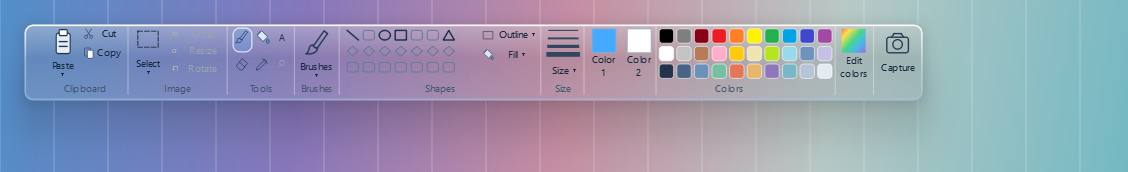
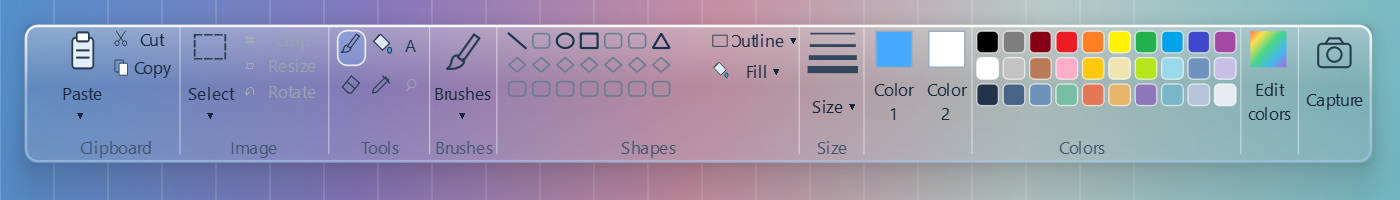
Enlarge HUD and toast text; exclude every application window from capture

Changed region(s): [[0.0, 0.1163, 0.9929, 0.9012], [0.1551, 0.7267, 0.2172, 0.7558]]

diff --git a/src/paint_overlay.py b/src/paint_overlay.py
@@ -287,26 +287,33 @@ class TextEditor(GlassPanel):
 class CaptureToast(GlassPanel):
     def __init__(self):
         super().__init__(None,C.Qt.Tool|C.Qt.FramelessWindowHint|C.Qt.WindowStaysOnTopHint|C.Qt.WindowDoesNotAcceptFocus)
-        self.setStyleSheet(STYLE); layout=W.QVBoxLayout(self); layout.setContentsMargins(16,10,16,10)
-        self.title=W.QLabel('Скриншот сохранён'); self.title.setStyleSheet('font-weight:600;'); layout.addWidget(self.title)
-        self.details=W.QLabel(); layout.addWidget(self.details)
+        self.title_text='Скриншот сохранён'; self.detail_text='Скопирован в буфер обмена'
+        self.setFixedSize(380,88)
         self.timer=C.QTimer(self); self.timer.setSingleShot(True); self.timer.timeout.connect(self.hide)
+    def paintEvent(self,event):
+        super().paintEvent(event)
+        p=G.QPainter(self); p.setRenderHint(G.QPainter.TextAntialiasing)
+        font=G.QFont('Segoe UI'); font.setPixelSize(20); font.setWeight(G.QFont.DemiBold); p.setFont(font); p.setPen(G.QColor('#10273f'))
+        p.drawText(C.QRectF(20,13,self.width()-40,28),C.Qt.AlignLeft|C.Qt.AlignVCenter,self.title_text)
+        font.setPixelSize(15); font.setWeight(G.QFont.Normal); p.setFont(font); p.setPen(G.QColor('#243e58'))
+        p.drawText(C.QRectF(20,45,self.width()-40,25),C.Qt.AlignLeft|C.Qt.AlignVCenter,self.detail_text)
     def notify(self,screen):
         number=G.QGuiApplication.screens().index(screen)+1
-        self.details.setText('Скопирован в буфер · Монитор '+str(number)); self.adjustSize()
-        area=screen.availableGeometry(); self.move(area.right()-self.width()-18,area.bottom()-self.height()-18); self.show(); self.raise_(); self.timer.start(2800)
+        self.detail_text='Скопирован в буфер · Монитор '+str(number); self.update()
+        area=screen.availableGeometry(); self.move(area.right()-self.width()-18,area.bottom()-self.height()-18); self.show(); self.raise_(); self.timer.start(3300)
 
 class HUD(GlassPanel):
     def __init__(self,owner):
         super().__init__(None,C.Qt.Tool|C.Qt.FramelessWindowHint|C.Qt.WindowStaysOnTopHint|C.Qt.WindowDoesNotAcceptFocus)
         self.owner=owner
-        self.ui_scale=1.6
-        self.setFixedSize(round(562*self.ui_scale),round(48*self.ui_scale))
+        self.ui_scale=2.4
+        self.setFixedSize(round(562*self.ui_scale),round(58*self.ui_scale))
         self.swatches=[['#000000','#7f7f7f','#880015','#ed1c24','#ff7f27','#fff200','#22b14c','#00a2e8','#3f48cc','#a349a4'],['#ffffff','#c3c3c3','#b97a57','#ffaec9','#ffc90e','#efe4b0','#b5e61d','#99d9ea','#7092be','#c8bfe7'],['#24334c','#476385','#6b91b8','#77bfa3','#e47856','#e7b66a','#8e78bb','#78b6c8','#b6c4d8','#e6ebf2']]
         self.tool_buttons={}; self.colors={}; self.hotspots=[]
         self.setStyleSheet('QPushButton {border:0;background:transparent;padding:0;border-radius:8px;} QPushButton:hover {background:rgba(30,65,110,18);border:1px solid rgba(70,110,160,90);} QPushButton:pressed {background:rgba(130,190,250,100);}')
         def hit(rect,tip,callback=None,key=None):
-            button=W.QPushButton(self); button.setGeometry(*(round((v+12 if i==0 else v)*self.ui_scale) for i,v in enumerate(rect))); button.setToolTip(tip); button.setAccessibleName(tip)
+            if rect[0] in (1,55,159,313,340,362,496,520) and rect[3]>=33:rect=(rect[0],rect[1],rect[2],42)
+            button=W.QPushButton(self); button.setProperty('baseRect',rect); button.setGeometry(*(round((v+12 if i==0 else v)*self.ui_scale) for i,v in enumerate(rect))); button.setToolTip(tip); button.setAccessibleName(tip)
             if callback:button.clicked.connect(callback)
             else:button.setToolTip(tip+' — пока недоступно'); button.setProperty('unavailable',True); button.setEnabled(False)
             if key:
@@ -344,6 +351,13 @@ class HUD(GlassPanel):
         hit((520,1,29,34),'Скриншот · Ctrl+Alt+S',owner.screenshot)
         self.animation=C.QPropertyAnimation(self,b'windowOpacity'); self.animation.setDuration(160); self.animation.setEasingCurve(C.QEasingCurve.OutCubic)
         self.brush_popup=BrushChooser(owner)
+    def fit_to_screen(self,area):
+        self.ui_scale=min(2.4,max(1.0,(area.width()-32)/562))
+        self.setFixedSize(round(562*self.ui_scale),round(58*self.ui_scale))
+        for button in self.hotspots:
+            rect=button.property('baseRect')
+            button.setGeometry(*(round((v+12 if i==0 else v)*self.ui_scale) for i,v in enumerate(rect)))
+        self.update()
     def brush_menu(self):
         self.owner.panel.dismiss(); self.owner.select_tool('brush')
         if self.brush_popup.isVisible():self.brush_popup.hide()
@@ -354,7 +368,7 @@ class HUD(GlassPanel):
             sub=menu.addMenu(title)
             for value in values:
                 action=sub.addAction(str(value)+' px'); action.setCheckable(True); action.setChecked(value==self.owner.cfg[key]); action.triggered.connect(lambda checked=False,k=key,v=value:self.owner.set_value(k,v))
-        menu.exec(self.mapToGlobal(C.QPoint(round(325*self.ui_scale),round(34*self.ui_scale))))
+        menu.exec(self.mapToGlobal(C.QPoint(round(325*self.ui_scale),self.height()+5)))
     def choose_color(self):
         self.owner.set_layer_shortcuts(False)
         try:
@@ -369,30 +383,30 @@ class HUD(GlassPanel):
         p.setRenderHint(G.QPainter.Antialiasing); p.setRenderHint(G.QPainter.TextAntialiasing)
         p.scale(self.ui_scale,self.ui_scale)
         light=getattr(self,'glass_light',None)
-        paint_glass(p,C.QRectF(0,0,562,48),light/self.ui_scale if light else None)
+        paint_glass(p,C.QRectF(0,0,562,58),light/self.ui_scale if light else None)
         p.translate(12,0)
-        font=G.QFont('Segoe UI'); font.setPixelSize(6); p.setFont(font)
+        font=G.QFont('Segoe UI'); font.setPixelSize(7); p.setFont(font)
         def text(rect,title,color='#17273d'):
             p.setPen(G.QColor(color)); p.drawText(C.QRectF(*rect),C.Qt.AlignCenter,title)
         def icon(kind,x,y,w=12,h=12):
             p.save(); p.translate(x,y); p.scale(w/24,h/24); draw_action(p,kind); p.restore()
         for x in (53,115,157,185,311,338,383,495,519):
-            p.setPen(G.QPen(G.QColor(255,255,255,120),.5)); p.drawLine(C.QPointF(x,1),C.QPointF(x,44))
-        for x,w,title in [(1,51,'Clipboard'),(54,60,'Image'),(116,41,'Tools'),(158,27,'Brushes'),(186,125,'Shapes'),(312,26,'Size'),(339,180,'Colors')]:text((x,36,w,9),title,'#43566f')
+            p.setPen(G.QPen(G.QColor(255,255,255,120),.5)); p.drawLine(C.QPointF(x,1),C.QPointF(x,54))
+        for x,w,title in [(1,51,'Clipboard'),(54,60,'Image'),(116,41,'Tools'),(158,27,'Brushes'),(186,125,'Shapes'),(312,26,'Size'),(339,180,'Colors')]:text((x,46,w,10),title,'#43566f')
         # Highlight follows the selected tool, rather than a baked-in screenshot.
         selected=self.tool_buttons.get(self.owner.drawing_tool)
         if selected:
             r=selected.geometry(); r=C.QRectF(r.x()/self.ui_scale-12,r.y()/self.ui_scale,r.width()/self.ui_scale,r.height()/self.ui_scale)
             p.setBrush(G.QColor(90,170,255,65)); p.setPen(G.QPen(G.QColor(255,255,255,210),.7)); p.drawRoundedRect(r.adjusted(.7,.7,-.7,-.7),4,4)
-        icon('paste',5,2,15,18); text((1,22,23,8),'Paste'); text((7,29,10,5),'▾')
+        icon('paste',5,2,15,18); text((1,23,23,11),'Paste'); text((7,35,10,6),'▾')
         icon('cut',25,2,7,8); text((32,1,19,10),'Cut')
         icon('copy',25,14,7,8); text((32,13,19,10),'Copy')
-        icon('select',57,2,17,15); text((55,20,22,10),'Select'); text((61,28,10,5),'▾')
+        icon('select',57,2,17,15); text((55,23,22,11),'Select'); text((61,35,10,6),'▾')
         for y,title,glyph in [(1,'Crop','⌗'),(12,'Resize','▱'),(23,'Rotate','↶')]:
             text((78,y,9,10),glyph,'#a4aab3'); text((86,y,28,10),title,'#9aa3ae')
         for kind,x,y in [('brush',119,3),('fill',132,3),('eraser',119,20)]:icon(kind,x,y,10,10)
         text((144,3,11,11),'A','#20354d'); icon('picker',132,20,10,10); text((144,20,11,10),'⌕','#9aa3ae')
-        icon('brush',162,2,18,19); text((159,22,24,9),'Brushes'); text((166,30,10,5),'▾')
+        icon('brush',162,2,18,19); text((157,23,28,11),'Brushes'); text((166,35,10,6),'▾')
         for i in range(7):
             for j in range(3):
                 rect=C.QRectF(190+i*10,4+j*10,7,6)
@@ -408,9 +422,9 @@ class HUD(GlassPanel):
         icon('fill',274,15,8,8); text((283,14,27,11),'Fill ▾')
         for i,width in enumerate((.7,1.2,2,3)):
             p.setPen(G.QPen(G.QColor('#32465e'),width)); p.drawLine(C.QPointF(316,4+i*5),C.QPointF(334,4+i*5))
-        text((315,25,22,8),'Size ▾')
+        text((313,28,26,12),'Size ▾')
         for x,title,color in [(340,'Color 1',self.owner.cfg['color']),(362,'Color 2','#ffffff')]:
-            p.setPen(G.QPen(G.QColor('#9aaabf'),.6)); p.setBrush(G.QColor(color)); p.drawRect(C.QRectF(x+3,3,15,15)); text((x,20,21,13),title.replace(' ','\n'))
+            p.setPen(G.QPen(G.QColor('#9aaabf'),.6)); p.setBrush(G.QColor(color)); p.drawRect(C.QRectF(x+3,3,15,15)); text((x,22,21,20),title.replace(' ','\n'))
         p.setBrush(C.Qt.NoBrush)
         for row,colors in enumerate(self.swatches):
             for col,color in enumerate(colors):
@@ -418,8 +432,8 @@ class HUD(GlassPanel):
                 if color.lower()==self.owner.cfg['color'].lower():p.setPen(G.QPen(G.QColor('#2684e3'),1)); p.drawRoundedRect(rect.adjusted(-.8,-.8,.8,.8),2.5,2.5)
         gradient=G.QLinearGradient(497,3,514,18)
         for at,color in [(0,'#ff5252'),(.25,'#ffdf4b'),(.5,'#4ad687'),(.75,'#45b8ed'),(1,'#ab68dd')]:gradient.setColorAt(at,G.QColor(color))
-        p.fillRect(C.QRectF(499,3,15,15),gradient); text((496,20,22,14),'Edit\ncolors')
-        icon('camera',525,3,18,18); text((520,22,29,11),'Capture')
+        p.fillRect(C.QRectF(499,3,15,15),gradient); text((496,22,22,20),'Edit\ncolors')
+        icon('camera',525,3,18,18); text((519,25,31,12),'Capture')
     def open(self):PalettePanelBase.open(self)
     def dismiss(self):PalettePanelBase.dismiss(self)
 
@@ -492,29 +506,56 @@ class App:
         ink=self.overlay.image.copy(rect)
         painter=G.QPainter(result); painter.setRenderHint(G.QPainter.SmoothPixmapTransform); painter.drawImage(C.QRectF(result.rect()),ink,C.QRectF(ink.rect())); painter.end()
         return result
+    @staticmethod
+    def exclude_capture_windows(windows):
+        changes=[]
+        if W.QApplication.platformName()!='windows' or sys.getwindowsversion().build<19041:return changes
+        from ctypes import wintypes
+        u.SetWindowDisplayAffinity.argtypes=[wintypes.HWND,wintypes.DWORD]; u.SetWindowDisplayAffinity.restype=wintypes.BOOL
+        u.GetWindowDisplayAffinity.argtypes=[wintypes.HWND,ctypes.POINTER(wintypes.DWORD)]; u.GetWindowDisplayAffinity.restype=wintypes.BOOL
+        for widget in windows:
+            hwnd=wintypes.HWND(int(widget.winId())); old=wintypes.DWORD(0)
+            u.GetWindowDisplayAffinity(hwnd,ctypes.byref(old))
+            if u.SetWindowDisplayAffinity(hwnd,0x11):changes.append((int(widget.winId()),old.value))
+        return changes
+    @staticmethod
+    def restore_capture_windows(changes):
+        restored=set()
+        for hwnd,old in changes:
+            if hwnd in restored:continue
+            restored.add(hwnd)
+            if u.IsWindow(ctypes.c_void_p(hwnd)):u.SetWindowDisplayAffinity(ctypes.c_void_p(hwnd),old)
     def screenshot(self):
         if self.capturing:return
         if self.text_editor is not None:self.finish_text(True)
         self.capturing=True; target=self.capture_target()
-        visible=[w for w in (self.panel,self.dock,self.dock.brush_popup,self.capture_toast,self.overlay) if w.isVisible()]
+        persistent=(self.panel,self.dock,self.dock.brush_popup,self.overlay)
+        restore=[w for w in persistent if w.isVisible()]
+        visible=[w for w in W.QApplication.topLevelWidgets() if w.isVisible()]
+        affinities=self.exclude_capture_windows(visible)
         for widget in visible:widget.hide()
         def capture():
             filename=None
             try:
+                # Catch tooltips or flyouts that were queued before the click.
+                late=[w for w in W.QApplication.topLevelWidgets() if w.isVisible()]
+                affinities.extend(self.exclude_capture_windows(late))
+                for widget in late:widget.hide()
+                W.QApplication.processEvents(C.QEventLoop.ExcludeUserInputEvents)
+                if W.QApplication.platformName()=='windows':ctypes.windll.dwmapi.DwmFlush()
                 result=self.capture_screen_image(target)
                 W.QApplication.clipboard().setImage(result)
                 folder=Path(C.QStandardPaths.writableLocation(C.QStandardPaths.PicturesLocation))/APP; folder.mkdir(parents=True,exist_ok=True)
                 filename=folder/('Paint Overlay '+C.QDateTime.currentDateTime().toString('yyyy-MM-dd HH-mm-ss-zzz')+'.png')
                 if not result.save(str(filename),'PNG'):raise RuntimeError('Не удалось сохранить файл')
                 self.last_screenshot=filename
-                self.tray.showMessage(APP,'Скриншот сохранён и скопирован в буфер',W.QSystemTrayIcon.Information,3000)
             except Exception as error:W.QMessageBox.warning(None,APP,str(error))
             finally:
-                for widget in reversed(visible):
-                    if widget is not self.capture_toast:widget.show(); widget.raise_()
+                self.restore_capture_windows(affinities)
+                for widget in reversed(restore):widget.show(); widget.raise_()
                 self.capturing=False
             if filename is not None and self.last_screenshot==filename:self.capture_toast.notify(target)
-        C.QTimer.singleShot(150,capture)
+        C.QTimer.singleShot(300,capture)
     def enable(self,value):self.enabled=value; self.previous=None; self.apply_mode()
     def set_layer_shortcuts(self,active):
         self.layer_shortcuts_active=active
@@ -530,10 +571,13 @@ class App:
         self.overlay.setCursor(C.Qt.CrossCursor if shield else C.Qt.ArrowCursor); self.overlay.show(); self.overlay.update()
         if shield:
             area=(G.QGuiApplication.screenAt(G.QCursor.pos()) or G.QGuiApplication.primaryScreen()).availableGeometry()
+            self.dock.fit_to_screen(area)
             self.dock.move(area.center().x()-self.dock.width()//2,area.top()+14); self.dock.open()
         else:self.dock.dismiss(); self.panel.dismiss(); self.dock.brush_popup.hide(); self.overlay.selection=None; self.overlay.update()
         if self.panel.isVisible():self.panel.raise_()
-    def toggle_mode(self):self.set_value('shield',not self.cfg['shield']); self.panel.dismiss(); self.apply_mode()
+    def toggle_mode(self):
+        if self.capturing:return
+        self.set_value('shield',not self.cfg['shield']); self.panel.dismiss(); self.apply_mode()
     def leave_layer(self):
         if self.cfg['shield']:self.toggle_mode()
     def toggle_panel(self):

diff --git a/tests/test_overlay.py b/tests/test_overlay.py
@@ -61,7 +61,7 @@ class OverlayTests(BaseOverlay):
     def test_native_ribbon_and_palette(self):
         a=self.app
         self.assertFalse(hasattr(a.dock,'background'))
-        self.assertEqual(a.dock.size(),m.C.QSize(899,77))
+        self.assertEqual(a.dock.size(),m.C.QSize(1349,139))
         self.assertEqual(len(a.panel.colors),6)
         self.assertTrue(all(s.orientation()==m.C.Qt.Horizontal for s in a.panel.sliders.values()))
         a.dock.tool_buttons['ellipse'].click()
@@ -152,6 +152,19 @@ class PaintWorkflowTests(BaseOverlay):
             m.u=Keys; a.leave_layer=lambda:exits.append(True)
             a.tick(); self.assertFalse(exits); self.assertTrue(a.overlay.shield)
         finally:m.u=real; a.leave_layer=original_leave
+    def test_toast_draws_readable_title_and_details(self):
+        toast=self.app.capture_toast
+        image=toast.grab().toImage()
+        for area in (m.C.QRect(20,13,340,28),m.C.QRect(20,45,340,25)):
+            dark=sum(1 for y in range(area.top(),area.bottom()) for x in range(area.left(),area.right()) if image.pixelColor(x,y).red()<90 and image.pixelColor(x,y).green()<110 and image.pixelColor(x,y).alpha()>100)
+            self.assertGreater(dark,150)
+    def test_hud_fits_smaller_displays(self):
+        dock=self.app.dock
+        try:
+            dock.fit_to_screen(m.C.QRect(0,0,1024,768))
+            self.assertLessEqual(dock.width(),992)
+            self.assertTrue(all(dock.rect().contains(button.geometry()) for button in dock.hotspots))
+        finally:dock.fit_to_screen(m.C.QRect(0,0,1920,1080))
     def test_font_popup_does_not_commit_text_prematurely(self):
         a=self.app; a.cfg['shield']=True; a.open_text(m.C.QPointF(30,40)); editor=a.text_editor; a.editor_wait_release=False
         real=m.u; original_popup=m.W.QApplication.activePopupWidget; original_pos=m.G.QCursor.pos
@@ -181,10 +194,13 @@ class PaintWorkflowTests(BaseOverlay):
         self.assertEqual(result.pixelColor(100,100).name(),'#ff0000')
         self.assertEqual(a.capture_screen_image(first).pixelColor(50,50).name(),'#335577')
     def test_capture_copies_png_and_notifies(self):
-        a=self.app
+        a=self.app; case=self
+        probe=m.W.QWidget(None,m.C.Qt.Tool); probe.setFixedSize(60,40); probe.show()
+        a.dock.show(); a.capture_toast.show()
         class Screen:
             def geometry(self):return m.C.QRect(0,0,400,400)
             def grabWindow(self,window):
+                case.assertFalse(any(w.isVisible() for w in m.W.QApplication.topLevelWidgets()))
                 pix=m.G.QPixmap(400,400); pix.fill(m.G.QColor('#335577')); return pix
         screen=Screen(); original_target=a.capture_target; original_notify=a.capture_toast.notify
         original_path=m.C.QStandardPaths.writableLocation; original_warning=m.W.QMessageBox.warning
@@ -193,10 +209,11 @@ class PaintWorkflowTests(BaseOverlay):
             a.capture_target=lambda:screen; a.capture_toast.notify=lambda target:notifications.append(target)
             m.C.QStandardPaths.writableLocation=lambda location:sandbox.name
             m.W.QMessageBox.warning=lambda *args:errors.append(args)
-            a.screenshot(); loop=m.C.QEventLoop(); m.C.QTimer.singleShot(450,loop.quit); loop.exec()
+            a.screenshot(); loop=m.C.QEventLoop(); m.C.QTimer.singleShot(600,loop.quit); loop.exec()
             self.assertFalse(errors); self.assertFalse(a.capturing)
             self.assertTrue(a.last_screenshot.exists()); self.assertEqual(self.qt.clipboard().image().size(),m.C.QSize(400,400)); self.assertEqual(notifications,[screen])
         finally:
+            probe.close()
             a.capture_target=original_target; a.capture_toast.notify=original_notify
             m.C.QStandardPaths.writableLocation=original_path; m.W.QMessageBox.warning=original_warning
     def test_no_pointer_glow_and_aligned_active_tool(self):

diff --git a/README.md b/README.md
@@ -6,6 +6,8 @@
 
 ![Стеклянная панель инструментов](docs/glass-demo.png)
 
+**Размер HUD:** до 1349×139 логических пикселей; на небольших экранах ширина подстраивается автоматически. Подписи увеличены, а попап сохранения рисует текст напрямую.
+
 **Liquid Glass style:** прозрачный HUD с нативным размытием окон Windows, бликами, мягкими краями и векторными значками. Если нативные эффекты недоступны, используется полупрозрачная подложка без системного размытия.
 
 ## Установка
@@ -34,7 +36,7 @@
 
 Линия с Shift привязывается к направлениям с шагом 45°. Прямоугольник с Shift становится квадратом, эллипс — кругом. Для выделения протяните рамку; внутри неё можно перемещать фрагмент, за углы — менять размер.
 
-Capture снимает только монитор последнего рисования, копирует результат в буфер обмена и сохраняет PNG. Попап подтверждает сохранение. Панели и редактор не попадают в кадр. Если рисунка ещё нет, выбирается монитор курсора.
+Capture снимает только монитор последнего рисования, копирует результат в буфер обмена и сохраняет PNG. Попап подтверждает сохранение. Перед снимком скрываются все окна приложения, включая меню и уведомления; на современных Windows они также временно исключаются из захвата средствами ОС. Панели и редактор не попадают в кадр. Если рисунка ещё нет, выбирается монитор курсора.
 
 Скриншоты: `Изображения/Paint Overlay`. Настройки: `%LOCALAPPDATA%/Paint Overlay/settings.json`. Рисунок хранится в памяти до очистки или выхода.
 

diff --git a/docs/branding.md b/docs/branding.md
@@ -17,3 +17,5 @@ The glass appearance is inspired by [Apple HIG Materials](https://developer.appl
 The non-activating HUD prefers Windows composition blur with custom translucent glass tint. Desktop Acrylic is retained as a fallback. Geometry reveal animation avoids layered-window opacity, which can force an opaque backdrop on tool windows. The glass was visually checked over a synthetic colored background; the background in docs/glass-demo.png contains no user desktop content.
 
 Version 2.1 removes the cursor-following radial highlight. The visible glass outline follows the native rounded window corners; the redundant internal rim and title area are removed. Toolbar icons use thin vector strokes. Screenshot exports target the monitor of the last drawing operation and never include HUD controls.
+
+Version 2.1.1 enlarges the ribbon and its labels. Capture uses temporary [WDA_EXCLUDEFROMCAPTURE](https://learn.microsoft.com/windows/win32/api/winuser/nf-winuser-setwindowdisplayaffinity), hides all visible application top-level widgets, and flushes DWM before sampling the screen. A native test verified that the saved HUD region, including its surrounding shadow margin, matches an unobstructed background byte-for-byte. Toast text is painted directly instead of relying on transparent child-label composition.
